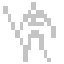
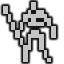
Get_node functions, move_to, ect

diff --git a/Classes/HelloWorldScene.cpp b/Classes/HelloWorldScene.cpp
@@ -12,49 +12,132 @@ Scene* HelloWorld::createScene()
     return scene;
 }
 
+enum GridNodeType {
+
+	GRID_NODE_TYPE_NONE,
+	GRID_NODE_TYPE_FLOOR,
+	GRID_NODE_TYPE_WALKABLE_FLOOR,
+	GRID_NODE_TYPE_WALL
+};
+
+
+float HEX_WIDTH = 64.0f;
+float HEX_HEIGHT = 64.0f;
+int HEX_OFFSET = 10;
+float HEX_WORLD_WIDTH = HEX_WIDTH + HEX_OFFSET;
+float HEX_WORLD_HEIGHT = (HEX_HEIGHT + HEX_OFFSET) * .8f;
+
+Texture2D* tex_hex_floor;
+Texture2D* tex_hex_wall;
+Texture2D* tex_hex_walkable_floor;
+Texture2D* tex_char_warrior;
+
+Texture2D* get_node_texture(GridNodeType type) {
+	switch (type) {
+	case GRID_NODE_TYPE_FLOOR:				return tex_hex_floor;
+	case GRID_NODE_TYPE_WALKABLE_FLOOR:		return tex_hex_walkable_floor;
+	case GRID_NODE_TYPE_WALL:				return tex_hex_wall;
+	}
+	return NULL;
+}
+
+struct GridNode {
+
+	int grid_x;
+	int grid_y;
+	float world_x;
+	float world_y;
+
+	Sprite* sprite;
+	GridNodeType type = GRID_NODE_TYPE_NONE;
+
+	void update_texture() {
+		auto tex = get_node_texture(type);
+		sprite->setTexture(tex);
+		sprite->setScale(HEX_WIDTH / tex->getPixelsWide(), HEX_HEIGHT / tex->getPixelsHigh());
+	}
+};
+
+std::vector<GridNode*> grid;
+int grid_width;
+int grid_height;
+float map_width;
+float map_height;
+
+GridNode* get_node(int x, int y) {
+	int index = (y * grid_width) + x;
+	if (index < 0 || index >= grid_width * grid_height) return NULL;
+	return grid[index];
+}
+
+void move_to(Sprite* sprite, GridNode* node) {
+	sprite->setPosition(node->world_x, node->world_y + (HEX_HEIGHT * .35f));
+}
+
 bool HelloWorld::init()
 {
-	if (!Layer::init()) return false;
+	if (!LayerColor::initWithColor(Color4B(12, 12, 12, 255))) return false;
 
     Size size = Director::getInstance()->getVisibleSize();
 	Vec2 origin = Director::getInstance()->getVisibleOrigin();
 
-	this->setColor(Color3B(33, 33, 33));
-
-    auto label = Label::createWithTTF("Hello World", "fonts/Marker Felt.ttf", 24);
-    
-	label->setPosition(Vec2(origin.x + size.width / 2,
-		origin.y + size.height - label->getContentSize().height));
-
-	auto hex_tex = TextureCache::sharedTextureCache()->addImage("hexagon.png");
-	auto wall_tex = TextureCache::sharedTextureCache()->addImage("wall.png");
+	auto label = Label::createWithTTF("Hello World", "fonts/Marker Felt.ttf", 24);
+	
+	tex_hex_floor = TextureCache::getInstance()->addImage("hex_floor.png");
+	tex_hex_walkable_floor = TextureCache::getInstance()->addImage("hex_walkable_floor.png");
+	tex_hex_wall = TextureCache::getInstance()->addImage("hex_wall.png");
+	tex_char_warrior = TextureCache::getInstance()->addImage("char_warrior.png");
 
 	auto hex_container = Sprite::create();
 	this->addChild(hex_container, 0);
-	
-	int grid_width = 8;
-	int grid_height = 8;
-	float hex_width = 64.0f;
-	float hex_height = 64.0f;
-	int hex_seperation = 10;
-	float map_width = grid_width * (hex_width + hex_seperation);
-	float map_height = grid_height * (hex_height + hex_seperation) * .8f;
+
+	grid_width = size.width / HEX_WORLD_WIDTH;
+	grid_height = size.height / HEX_WORLD_HEIGHT;
+	--grid_width;
+	--grid_height;
+	map_width = grid_width * HEX_WORLD_WIDTH;
+	map_height = grid_height * HEX_WORLD_HEIGHT;
+
+	hex_container->setPosition((size.width - map_width) / 2, (size.height - map_height) / 2);
+
 	for (int y = 0; y < grid_height; ++y) {
 		for (int x = 0; x < grid_width; ++x) {
-			auto hex = Sprite::createWithTexture((x % 4 <= 1) ? hex_tex : wall_tex);
+			GridNodeType type = GRID_NODE_TYPE_FLOOR;
+			if (x % 4 <= 1) type = GRID_NODE_TYPE_WALL;
+
+			auto hex = Sprite::create();
+			hex_container->addChild(hex, 0);
 
 			hex->setAnchorPoint(Vec2(0, 0));
-			hex->setScale(hex_width / hex_tex->getPixelsWide(), hex_height / hex_tex->getPixelsHigh());
-			hex->setPosition((x + ((y % 2) * .5f)) * (hex_width + hex_seperation), y * (hex_height + hex_seperation) * .8f);
+			hex->setPosition((x + ((y % 2) * .5f)) * HEX_WORLD_WIDTH, y * HEX_WORLD_HEIGHT);
 
-			hex_container->addChild(hex, 0);
+			GridNode* node = new GridNode();
+			node->grid_x = x;
+			node->grid_y = y;
+			node->world_x = hex->getPositionX() + hex_container->getPositionX();
+			node->world_y = hex->getPositionY() + hex_container->getPositionY();
+			node->type = type;
+			node->sprite = hex;
+
+			node->update_texture();
+
+			grid.push_back(node);
 		}
 	}
-	hex_container->setPosition((size.width - map_width) / 2, map_height / 2);
+
+	auto char_warrior = Sprite::createWithTexture(tex_char_warrior);
+	char_warrior->setAnchorPoint(Vec2(0, 0));
+	move_to(char_warrior, get_node(grid_width / 2, grid_height / 2));
+	this->addChild(char_warrior);
+
+	this->scheduleUpdate();
 
     return true;
 }
 
+void HelloWorld::update(float dt) {
+
+}
 
 void HelloWorld::menuCloseCallback(Ref* pSender)
 {

diff --git a/Classes/HelloWorldScene.h b/Classes/HelloWorldScene.h
@@ -3,17 +3,16 @@
 
 #include "cocos2d.h"
 
-class HelloWorld : public cocos2d::Layer
+class HelloWorld : public cocos2d::LayerColor
 {
 public:
     static cocos2d::Scene* createScene();
 
     virtual bool init();
+	virtual void update(float dt);
     
-    // a selector callback
-    void menuCloseCallback(cocos2d::Ref* pSender);
-    
-    // implement the "static create()" method manually
+	void menuCloseCallback(cocos2d::Ref* pSender);
+
     CREATE_FUNC(HelloWorld);
 };
 
